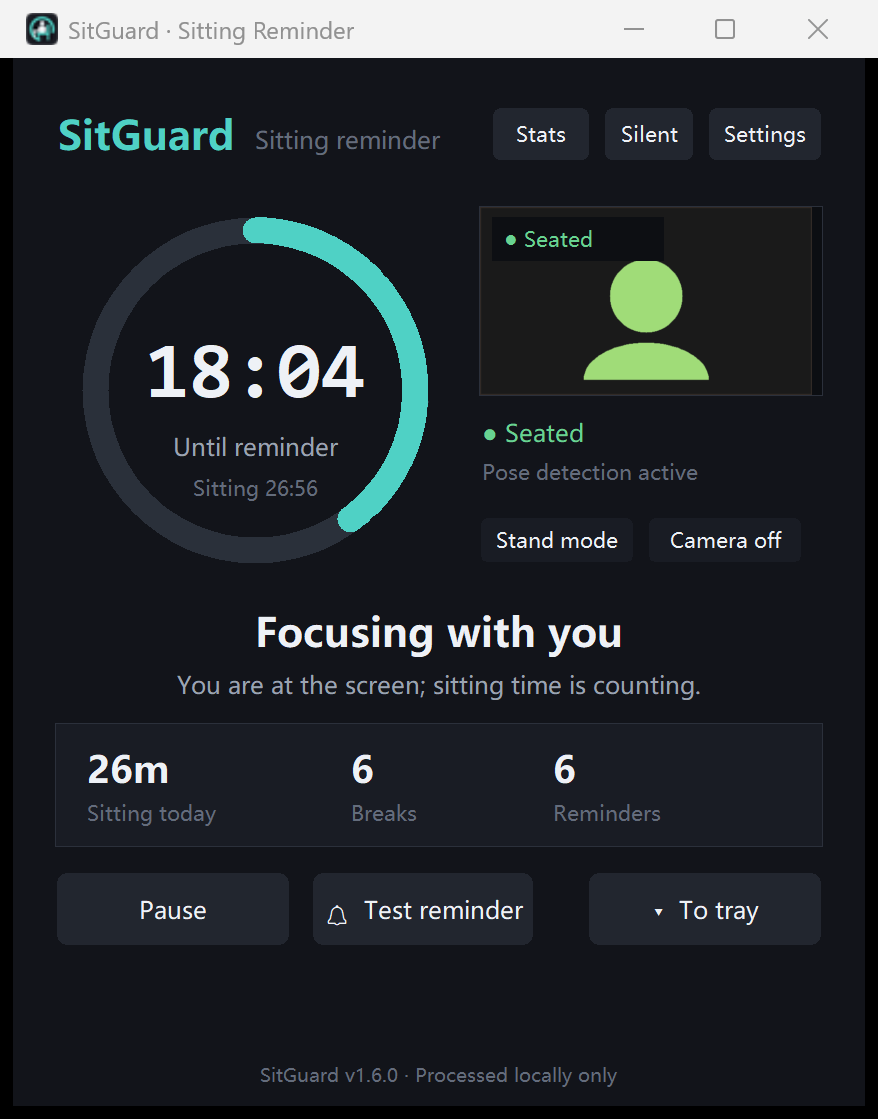
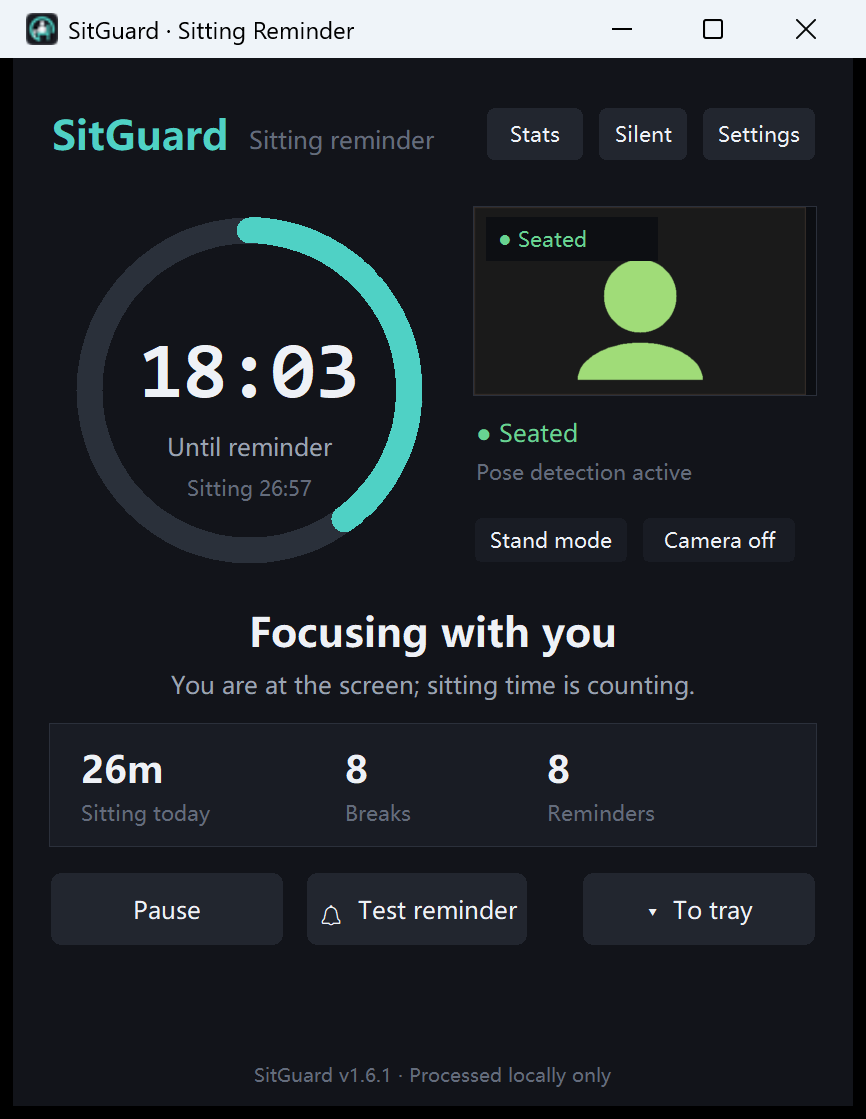
feat: posture toasts on standing/sitting
Show a short bottom-right note when the user stands up or sits down, including how long they were in the previous posture. Works in silent mode too (toast only) and uses the selected stand/sit sounds when sound is enabled.

diff --git a/sitguard/app.py b/sitguard/app.py
@@ -89,6 +89,7 @@ class App:
         self._posture_candidate: str | None = None
         self._posture_since = 0.0
         self._confirmed_posture: str | None = None
+        self._posture_confirmed_at = 0.0
         self._last_posture_sound = 0.0
         self._last_stats_save = time.monotonic()
         self._last_preview = 0.0
@@ -530,15 +531,37 @@ class App:
                 and posture != self._confirmed_posture
                 and now - self._posture_since >= 1.2):
             previous = self._confirmed_posture
+            previous_at = self._posture_confirmed_at
             self._confirmed_posture = posture
-            if (previous is not None and not self.is_silent()
-                    and self.config.sound and not self.manual_posture
+            self._posture_confirmed_at = now
+            if (previous is not None and not self.manual_posture
                     and now - self._last_posture_sound > 6.0):
                 self._last_posture_sound = now
+                seconds = max(0.0, now - previous_at) if previous_at else 0.0
                 if posture == "standing" and previous == "sitting":
-                    sound.stand_sound(self.config.stand_sound)
+                    if not self.is_silent() and self.config.sound:
+                        sound.stand_sound(self.config.stand_sound)
+                    self._posture_toast("stand", seconds)
                 elif posture == "sitting" and previous == "standing":
-                    sound.sit_sound(self.config.sit_sound)
+                    if not self.is_silent() and self.config.sound:
+                        sound.sit_sound(self.config.sit_sound)
+                    self._posture_toast("sit", seconds)
+
+    def _posture_toast(self, kind: str, seconds: float) -> None:
+        """站起/坐下时在右下角说一句，带上刚才坐了/站了多久。"""
+        import random
+
+        if seconds >= 60:
+            key = ("toast_stand_detected" if kind == "stand"
+                   else "toast_sit_detected")
+            text = i18n.t(key, d=i18n.fmt_duration(seconds))
+        else:
+            keys = (("toast_stand_short", "toast_stand_fun1", "toast_stand_fun2")
+                    if kind == "stand"
+                    else ("toast_sit_short", "toast_sit_fun1", "toast_sit_fun2"))
+            text = i18n.t(random.choice(keys))
+        color = ui.GOOD if kind == "stand" else ui.ACCENT
+        self.notify(text, color, ms=2800)
 
     def open_sound_settings(self) -> None:
         self.sound_window.open()

diff --git a/sitguard/i18n.py b/sitguard/i18n.py
@@ -64,8 +64,8 @@ _T = {
     "stats_no_record": ("该日期没有记录", "No record for this date"),
     "stats_bad_date": ("日期格式：YYYY-MM-DD", "Date format: YYYY-MM-DD"),
     "stats_future": ("不能查看未来日期", "Cannot view a future date"),
-    "footer": ("SitGuard v1.6.0 · 画面仅在本机处理",
-               "SitGuard v1.6.0 · Processed locally only"),
+    "footer": ("SitGuard v1.6.1 · 画面仅在本机处理",
+               "SitGuard v1.6.1 · Processed locally only"),
     "stand_mode": ("站立模式", "Stand mode"),
     "sit_down": ("坐下", "Sit down"),
     "stand": ("站立", "Stand"),
@@ -281,6 +281,16 @@ _T = {
     "toast_break_start": ("时间到，起来活动一下！", "Time to stand up and move!"),
     "toast_break_repeat": ("还没站起来，{m} 分钟后再提醒一次",
                            "Still sitting — I'll remind you again in {m} minutes"),
+    "toast_stand_detected": ("坐了 {d}，起来活动一下 👍",
+                             "Sat for {d} — nice stretch!"),
+    "toast_sit_detected": ("站了 {d}，坐下休息一下吧",
+                           "Stood for {d} — back to it."),
+    "toast_stand_short": ("站起来了，伸个懒腰吧", "On your feet — stretch!"),
+    "toast_sit_short": ("坐下了，记得挺直腰背", "Back in the chair — sit tall."),
+    "toast_stand_fun1": ("起身成功，肩膀放松一下", "Standing up — relax those shoulders."),
+    "toast_stand_fun2": ("站得好！顺便活动一下脖子", "Nice — roll your neck a little."),
+    "toast_sit_fun1": ("坐好啦，继续专注", "Seated — back to focus."),
+    "toast_sit_fun2": ("回到座位，腰背保持住", "Back at the desk — keep that posture."),
     "toast_break_end": ("{d}，继续加油 💪", "{d} — nice work 💪"),
     "toast_away": ("检测到你离开，计时暂停", "Away detected — timer paused"),
     "toast_reset_break": ("离开足够久，久坐时间已清零",

diff --git a/sitguard/__init__.py b/sitguard/__init__.py
@@ -1,5 +1,5 @@
 """SitGuard — 久坐提醒（摄像头在场检测）。"""
 
-__version__ = "1.6.0"
+__version__ = "1.6.1"
 APP_NAME = "SitGuard"
 APP_NAME_CN = "久坐提醒"

diff --git a/README_ZH.md b/README_ZH.md
@@ -73,6 +73,7 @@ English UI:
 | 活动统计 | 自动记录首次入座、坐/站/离开时长；无限保留，可按日期查看任意一天 |
 | 提示音 | 内置 8 种趣味音效 + 自定义 WAV；站起/坐下也有单独提示音 |
 | 静默/省电 | 主界面「静音」按钮手动切换；电池供电时自动开启：无声音、无全屏，只右下角提示，并降低检测频率 |
+| 站/坐提示 | 站起或坐下时右下角说一句，并带上刚才坐了/站了多久 |
 | 开机自启 | 写入 HKCU Run，登录后自动启动到托盘 |
 | 摄像头自恢复 | 长时间运行后画面卡住/设备掉线时，看门狗自动重连；检测器每小时重建 |
 | 雪花/黑屏检测 | 检测到电视雪花噪声或全黑画面，几秒内自动重启摄像头 |

diff --git a/README.md b/README.md
@@ -27,7 +27,9 @@ as soon as you stand.
 - **Sound-only mode** — hide the full-screen reminder; the app still plays
   the alert and re-reminds you every 5 minutes while you keep sitting.
 - **No main-window pop-up** — after you stand, only a small desktop toast
-  confirms it; the main window stays in the tray.
+  confirms it; the main window stays in the tray. Sitting down or standing up
+  also gets a short bottom-right note with how long you were in the previous
+  posture.
 - **Unlimited activity history** — see when you first sat, how long you
   sat/stood/were away, and open any past date from a scrollable record list.
 - **Silent / power-save mode** — one click on the main window, or automatic
